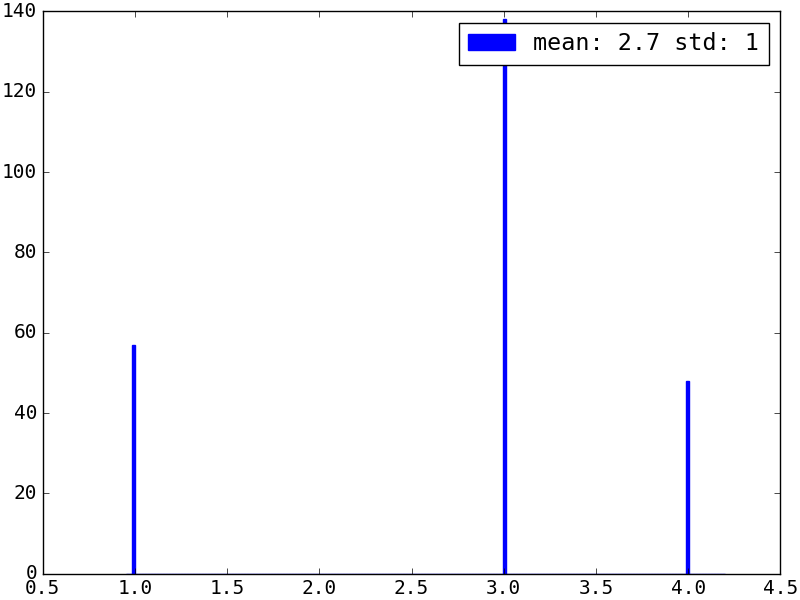
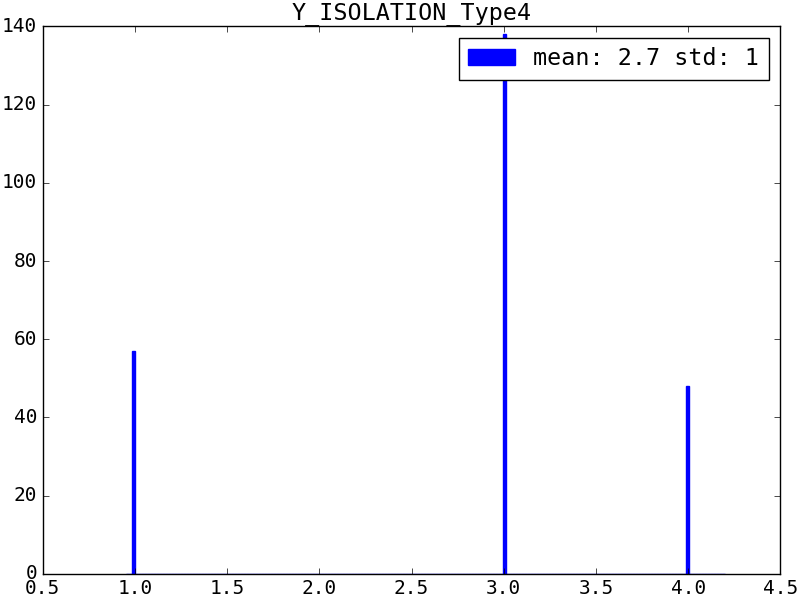
Add title.

diff --git a/utils/plot_single_branch.py b/utils/plot_single_branch.py
@@ -1,7 +1,7 @@
 #!/usr/bin/env python3
 #
 # Author: Yipeng Sun
-# Last Change: Thu Sep 26, 2019 at 02:01 AM -0400
+# Last Change: Thu Sep 26, 2019 at 02:04 AM -0400
 
 import uproot
 import numpy as np
@@ -101,6 +101,7 @@ def plot(histo, bins, output, title, mean, std, yAxisScale='linear'):
            align='edge', color='blue', edgecolor='blue',
            label='mean: {:.2g} std: {:.2g}'.format(mean, std))
     ax.legend()
+    ax.set_title(title)
 
     plt.tight_layout(pad=0.1)  # Remove all paddings
     fig.savefig(output)
